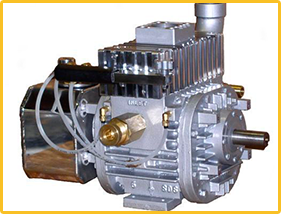
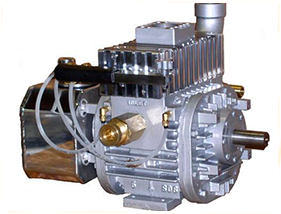
Borde de productos, componentes eliminados del index

Changed region(s): [[0.0, 0.0, 1.0, 1.0]]

diff --git a/css/style.css b/css/style.css
@@ -341,7 +341,6 @@ input:focus ,textarea:focus {
 .product-detail img {	
 	display: block;
 	margin: 20px auto;
-	border: #f9c025 solid 2px;
 	border-radius: 5px;
 	max-width: 100%;
 }

diff --git a/index.php b/index.php
@@ -52,15 +52,7 @@
 					<p class="blue">Accesorios</p>
 				</div>
 			</div>
-		</div>
-		<div class="row">		
-			<div class="col-md-6 col-lg-12">
-				<div class="product">			
-					<a href="productos.php#componentes"><div class="blue hoveroverlay"><img src="img/content/index/nve/COMPONENTES-PRINCIPALES.jpg" alt="Componentes Principales"></div></a>
-					<p class="blue">Componentes Principales</p>
-				</div>
-			</div>
-		</div>		
+		</div>	
 		<h1 class="blue">Productos Conde</h1>
 		<br>
 		<div class="row">

diff --git a/productos.php b/productos.php
@@ -548,7 +548,7 @@
 						<div class="row">
 							<div class="col-sm-6 col-md-4">
 								<div class="product-detail">
-									<img src="img/content/products/WEST/conde-ProVac-portable.jpg" alt="Aspiradora Portátil">
+									<img src="img/content/products/WEST/conde-ProVac.jpg" alt="Aspiradora Portátil">
 									<p class="yellow center-text">Aspiradora Portátil Industrial</p>
 									<p>
 										<strong>Flujo Maxima de aire:</strong> 35 cfm<br>
